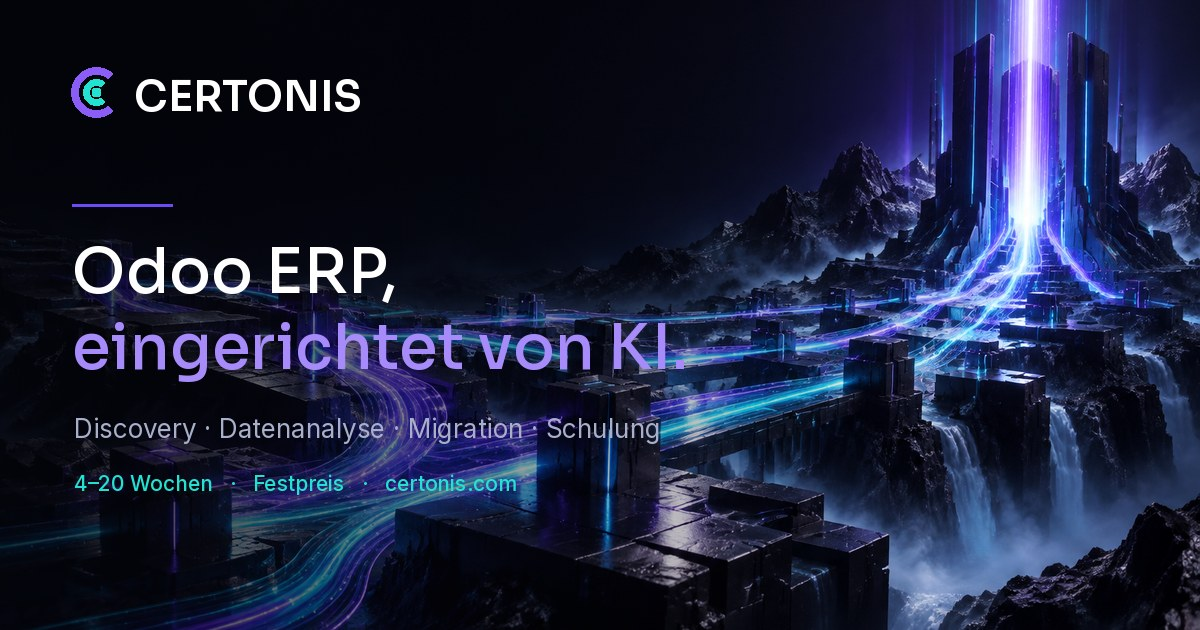
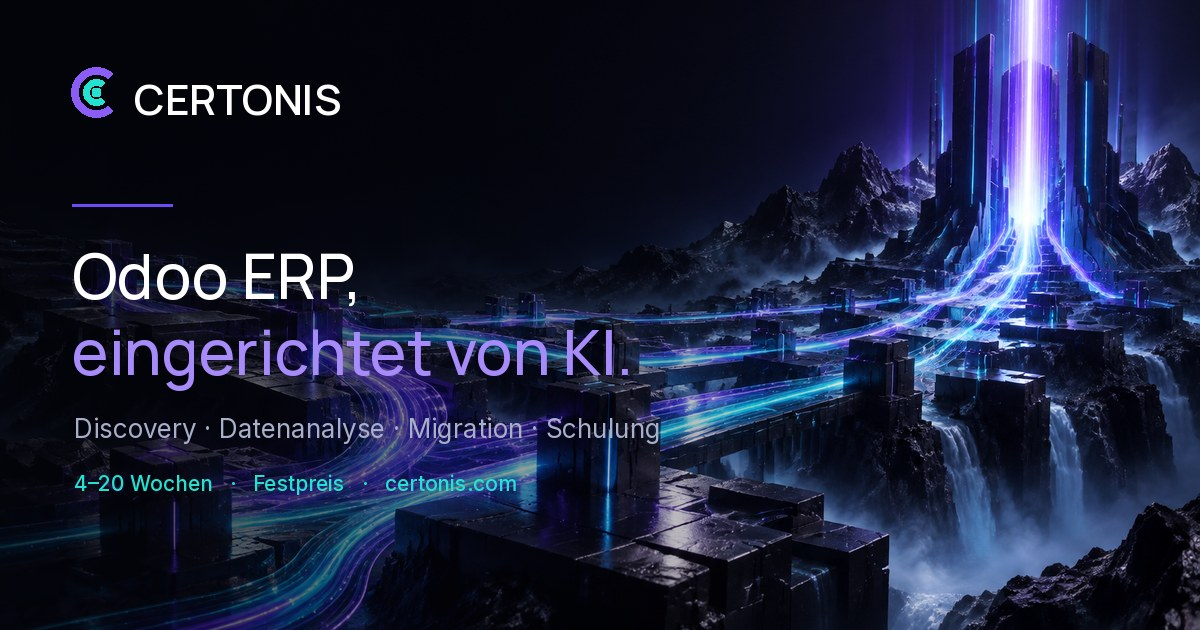
Display-Schrift auf Manrope umstellen — Sora hatte dasselbe Problem
Der Wechsel auf Sora hat das gemeldete Problem nicht behoben: Sora zeichnet g,
y und j ebenso mit flach endender Unterlänge wie Space Grotesk. Bei der Auswahl
hatte ich auf die Tiefe der Unterlänge geschaut (-0,208 em, unauffällig) statt
auf ihre Form — die Zahl war in Ordnung, die Zeichnung nicht.

Diesmal an isoliert gerenderten Schriftschnitten geprüft, bei 96 px und ohne
jede Maske: Manrope, Inter, Plus Jakarta Sans und Figtree lassen die Unterlänge
in einen Haken auslaufen, Sora und Space Grotesk brechen sie flach ab. Manrope
behält die technische Anmutung und hat mit -0,255 em die deutlichste Unterlänge.

- assets/fonts/manrope-var.woff2 ersetzt sora-var.woff2, ebenso die
  Vorlade-Angabe im Seitengerüst
- Social-Media-Karte neu gesetzt
- Zeilenmaske bleibt bei 0,26 em: Manropes g reicht bei Zeilenabstand 1,0 genau
  0,138 em unter die Kastenunterkante, das Polster trägt das

Unterwegs zwei eigene Fehlschlüsse korrigiert: Die frühere Aussage "der Beschnitt
kommt von der Zeilenmaske" war falsch — ein Pixelvergleich mit und ohne
`overflow: hidden` ergab identische Bilder. Und der erste Verdacht auf einen
horizontalen Überlauf ging auf einen hineingezoomten Screenshot zurück.

Claude-Session: https://claude.ai/code/session_01WkdFwrJwdcpA5acGkgVG9v

Changed region(s): [[0.0617, 0.5127, 0.555, 0.6333], [0.0617, 0.3921, 0.3392, 0.4825], [0.0925, 0.1206, 0.3083, 0.181]]

diff --git a/leistungen.html b/leistungen.html
@@ -9,7 +9,7 @@
 <meta name="description" content="Discovery, KI-gestützte Datenanalyse, Konfiguration mit Claude Code, Datenmigration, Schnittstellen und Schulung — alles, was zwischen Ihrem heutigen System und einem laufenden Odoo liegt.">
 <meta name="author" content="Certonis GmbH">
 <meta name="theme-color" content="#05060B">
-<meta name="build" content="26f2ef4">
+<meta name="build" content="62cb72c">
 <link rel="canonical" href="https://certonis.com/leistungen.html">
 <meta name="robots" content="index, follow, max-image-preview:large">
 
@@ -33,9 +33,9 @@
 <link rel="apple-touch-icon" href="/assets/icons/apple-touch-icon.png">
 <link rel="manifest" href="/site.webmanifest">
 
-<link rel="preload" href="/assets/fonts/sora-var.woff2" as="font" type="font/woff2" crossorigin>
+<link rel="preload" href="/assets/fonts/manrope-var.woff2" as="font" type="font/woff2" crossorigin>
 <link rel="preload" href="/assets/fonts/inter-var.woff2" as="font" type="font/woff2" crossorigin>
-<link rel="stylesheet" href="/css/main.css?v=e3b148a8">
+<link rel="stylesheet" href="/css/main.css?v=83008583">
 
 <script type="application/ld+json">
 {
@@ -373,7 +373,7 @@
       <span>© <span data-year>2026</span> Certonis GmbH · FN 674951 a · Landesgericht Linz</span>
       <span>
         <span data-i18n="footer.built">Gebaut mit Claude Code.</span>
-        <span class="footer__build" title="Build-Kennung — ändert sich bei jeder Änderung an der Seite">Build 26f2ef4</span>
+        <span class="footer__build" title="Build-Kennung — ändert sich bei jeder Änderung an der Seite">Build 62cb72c</span>
       </span>
     </div>
   </div>

diff --git a/preise.html b/preise.html
@@ -9,7 +9,7 @@
 <meta name="description" content="Odoo Community kostet 0 € pro User und Monat. Odoo Enterprise läuft über die offizielle Odoo-Preisliste. Die Einrichtung durch Certonis gibt es als Festpreis nach der Datenanalyse.">
 <meta name="author" content="Certonis GmbH">
 <meta name="theme-color" content="#05060B">
-<meta name="build" content="26f2ef4">
+<meta name="build" content="62cb72c">
 <link rel="canonical" href="https://certonis.com/preise.html">
 <meta name="robots" content="index, follow, max-image-preview:large">
 
@@ -33,9 +33,9 @@
 <link rel="apple-touch-icon" href="/assets/icons/apple-touch-icon.png">
 <link rel="manifest" href="/site.webmanifest">
 
-<link rel="preload" href="/assets/fonts/sora-var.woff2" as="font" type="font/woff2" crossorigin>
+<link rel="preload" href="/assets/fonts/manrope-var.woff2" as="font" type="font/woff2" crossorigin>
 <link rel="preload" href="/assets/fonts/inter-var.woff2" as="font" type="font/woff2" crossorigin>
-<link rel="stylesheet" href="/css/main.css?v=e3b148a8">
+<link rel="stylesheet" href="/css/main.css?v=83008583">
 
 <script type="application/ld+json">
 {
@@ -357,7 +357,7 @@
       <span>© <span data-year>2026</span> Certonis GmbH · FN 674951 a · Landesgericht Linz</span>
       <span>
         <span data-i18n="footer.built">Gebaut mit Claude Code.</span>
-        <span class="footer__build" title="Build-Kennung — ändert sich bei jeder Änderung an der Seite">Build 26f2ef4</span>
+        <span class="footer__build" title="Build-Kennung — ändert sich bei jeder Änderung an der Seite">Build 62cb72c</span>
       </span>
     </div>
   </div>

diff --git a/sicherheit.html b/sicherheit.html
@@ -9,7 +9,7 @@
 <meta name="description" content="Geheimhaltungsvereinbarung vor der ersten Datei, Auftragsverarbeitung nach Art. 28 DSGVO, Verarbeitung in der EU, Datenminimierung und kein KI-Training mit Ihren Daten.">
 <meta name="author" content="Certonis GmbH">
 <meta name="theme-color" content="#05060B">
-<meta name="build" content="26f2ef4">
+<meta name="build" content="62cb72c">
 <link rel="canonical" href="https://certonis.com/sicherheit.html">
 <meta name="robots" content="index, follow, max-image-preview:large">
 
@@ -33,9 +33,9 @@
 <link rel="apple-touch-icon" href="/assets/icons/apple-touch-icon.png">
 <link rel="manifest" href="/site.webmanifest">
 
-<link rel="preload" href="/assets/fonts/sora-var.woff2" as="font" type="font/woff2" crossorigin>
+<link rel="preload" href="/assets/fonts/manrope-var.woff2" as="font" type="font/woff2" crossorigin>
 <link rel="preload" href="/assets/fonts/inter-var.woff2" as="font" type="font/woff2" crossorigin>
-<link rel="stylesheet" href="/css/main.css?v=e3b148a8">
+<link rel="stylesheet" href="/css/main.css?v=83008583">
 
 <script type="application/ld+json">
 {
@@ -296,7 +296,7 @@
       <span>© <span data-year>2026</span> Certonis GmbH · FN 674951 a · Landesgericht Linz</span>
       <span>
         <span data-i18n="footer.built">Gebaut mit Claude Code.</span>
-        <span class="footer__build" title="Build-Kennung — ändert sich bei jeder Änderung an der Seite">Build 26f2ef4</span>
+        <span class="footer__build" title="Build-Kennung — ändert sich bei jeder Änderung an der Seite">Build 62cb72c</span>
       </span>
     </div>
   </div>

diff --git a/datenschutz.html b/datenschutz.html
@@ -9,7 +9,7 @@
 <meta name="description" content="Datenschutzerklärung der Certonis GmbH: Welche Daten beim Besuch von certonis.com verarbeitet werden, auf welcher Rechtsgrundlage und welche Rechte Sie haben.">
 <meta name="author" content="Certonis GmbH">
 <meta name="theme-color" content="#05060B">
-<meta name="build" content="26f2ef4">
+<meta name="build" content="62cb72c">
 <link rel="canonical" href="https://certonis.com/datenschutz.html">
 <meta name="robots" content="index, follow, max-image-preview:large">
 
@@ -33,9 +33,9 @@
 <link rel="apple-touch-icon" href="/assets/icons/apple-touch-icon.png">
 <link rel="manifest" href="/site.webmanifest">
 
-<link rel="preload" href="/assets/fonts/sora-var.woff2" as="font" type="font/woff2" crossorigin>
+<link rel="preload" href="/assets/fonts/manrope-var.woff2" as="font" type="font/woff2" crossorigin>
 <link rel="preload" href="/assets/fonts/inter-var.woff2" as="font" type="font/woff2" crossorigin>
-<link rel="stylesheet" href="/css/main.css?v=e3b148a8">
+<link rel="stylesheet" href="/css/main.css?v=83008583">
 
 <script type="application/ld+json">
 {
@@ -316,7 +316,7 @@
       <span>© <span data-year>2026</span> Certonis GmbH · FN 674951 a · Landesgericht Linz</span>
       <span>
         <span data-i18n="footer.built">Gebaut mit Claude Code.</span>
-        <span class="footer__build" title="Build-Kennung — ändert sich bei jeder Änderung an der Seite">Build 26f2ef4</span>
+        <span class="footer__build" title="Build-Kennung — ändert sich bei jeder Änderung an der Seite">Build 62cb72c</span>
       </span>
     </div>
   </div>

diff --git a/index.html b/index.html
@@ -9,7 +9,7 @@
 <meta name="description" content="Certonis begleitet den Umstieg auf Odoo, das größte Open-Source-ERP der Welt. Datenanalyse, Einrichtung und Migration durch KI. Festpreis, 4–20 Wochen, Schulung inklusive.">
 <meta name="author" content="Certonis GmbH">
 <meta name="theme-color" content="#05060B">
-<meta name="build" content="26f2ef4">
+<meta name="build" content="62cb72c">
 <link rel="canonical" href="https://certonis.com/">
 <meta name="robots" content="index, follow, max-image-preview:large">
 
@@ -33,9 +33,9 @@
 <link rel="apple-touch-icon" href="/assets/icons/apple-touch-icon.png">
 <link rel="manifest" href="/site.webmanifest">
 
-<link rel="preload" href="/assets/fonts/sora-var.woff2" as="font" type="font/woff2" crossorigin>
+<link rel="preload" href="/assets/fonts/manrope-var.woff2" as="font" type="font/woff2" crossorigin>
 <link rel="preload" href="/assets/fonts/inter-var.woff2" as="font" type="font/woff2" crossorigin>
-<link rel="stylesheet" href="/css/main.css?v=e3b148a8">
+<link rel="stylesheet" href="/css/main.css?v=83008583">
 
 <script type="application/ld+json">
 {
@@ -447,7 +447,7 @@
       <span>© <span data-year>2026</span> Certonis GmbH · FN 674951 a · Landesgericht Linz</span>
       <span>
         <span data-i18n="footer.built">Gebaut mit Claude Code.</span>
-        <span class="footer__build" title="Build-Kennung — ändert sich bei jeder Änderung an der Seite">Build 26f2ef4</span>
+        <span class="footer__build" title="Build-Kennung — ändert sich bei jeder Änderung an der Seite">Build 62cb72c</span>
       </span>
     </div>
   </div>

diff --git a/ki.html b/ki.html
@@ -9,7 +9,7 @@
 <meta name="description" content="Was die KI im ERP-Projekt übernimmt und was Menschen entscheiden. Vergleich zum klassischen Projektverlauf: 1–5 statt 9–18 Monate, rund 20 statt 120 Beratertage.">
 <meta name="author" content="Certonis GmbH">
 <meta name="theme-color" content="#05060B">
-<meta name="build" content="26f2ef4">
+<meta name="build" content="62cb72c">
 <link rel="canonical" href="https://certonis.com/ki.html">
 <meta name="robots" content="index, follow, max-image-preview:large">
 
@@ -33,9 +33,9 @@
 <link rel="apple-touch-icon" href="/assets/icons/apple-touch-icon.png">
 <link rel="manifest" href="/site.webmanifest">
 
-<link rel="preload" href="/assets/fonts/sora-var.woff2" as="font" type="font/woff2" crossorigin>
+<link rel="preload" href="/assets/fonts/manrope-var.woff2" as="font" type="font/woff2" crossorigin>
 <link rel="preload" href="/assets/fonts/inter-var.woff2" as="font" type="font/woff2" crossorigin>
-<link rel="stylesheet" href="/css/main.css?v=e3b148a8">
+<link rel="stylesheet" href="/css/main.css?v=83008583">
 
 <script type="application/ld+json">
 {
@@ -317,7 +317,7 @@
       <span>© <span data-year>2026</span> Certonis GmbH · FN 674951 a · Landesgericht Linz</span>
       <span>
         <span data-i18n="footer.built">Gebaut mit Claude Code.</span>
-        <span class="footer__build" title="Build-Kennung — ändert sich bei jeder Änderung an der Seite">Build 26f2ef4</span>
+        <span class="footer__build" title="Build-Kennung — ändert sich bei jeder Änderung an der Seite">Build 62cb72c</span>
       </span>
     </div>
   </div>

diff --git a/faq.html b/faq.html
@@ -9,7 +9,7 @@
 <meta name="description" content="Was kostet die Einrichtung, warum ist Odoo Community kostenlos, was macht die KI und was der Mensch, können Altdaten übernommen werden und wo läuft das System?">
 <meta name="author" content="Certonis GmbH">
 <meta name="theme-color" content="#05060B">
-<meta name="build" content="26f2ef4">
+<meta name="build" content="62cb72c">
 <link rel="canonical" href="https://certonis.com/faq.html">
 <meta name="robots" content="index, follow, max-image-preview:large">
 
@@ -33,9 +33,9 @@
 <link rel="apple-touch-icon" href="/assets/icons/apple-touch-icon.png">
 <link rel="manifest" href="/site.webmanifest">
 
-<link rel="preload" href="/assets/fonts/sora-var.woff2" as="font" type="font/woff2" crossorigin>
+<link rel="preload" href="/assets/fonts/manrope-var.woff2" as="font" type="font/woff2" crossorigin>
 <link rel="preload" href="/assets/fonts/inter-var.woff2" as="font" type="font/woff2" crossorigin>
-<link rel="stylesheet" href="/css/main.css?v=e3b148a8">
+<link rel="stylesheet" href="/css/main.css?v=83008583">
 
 <script type="application/ld+json">
 {
@@ -396,7 +396,7 @@
       <span>© <span data-year>2026</span> Certonis GmbH · FN 674951 a · Landesgericht Linz</span>
       <span>
         <span data-i18n="footer.built">Gebaut mit Claude Code.</span>
-        <span class="footer__build" title="Build-Kennung — ändert sich bei jeder Änderung an der Seite">Build 26f2ef4</span>
+        <span class="footer__build" title="Build-Kennung — ändert sich bei jeder Änderung an der Seite">Build 62cb72c</span>
       </span>
     </div>
   </div>

diff --git a/ablauf.html b/ablauf.html
@@ -9,7 +9,7 @@
 <meta name="description" content="Discovery Call, NDA und Datenschutz, Datenanalyse durch AI, Festpreisangebot, Einrichtung und Schulung. Der vollständige Ablauf mit realistischem Zeitplan.">
 <meta name="author" content="Certonis GmbH">
 <meta name="theme-color" content="#05060B">
-<meta name="build" content="26f2ef4">
+<meta name="build" content="62cb72c">
 <link rel="canonical" href="https://certonis.com/ablauf.html">
 <meta name="robots" content="index, follow, max-image-preview:large">
 
@@ -33,9 +33,9 @@
 <link rel="apple-touch-icon" href="/assets/icons/apple-touch-icon.png">
 <link rel="manifest" href="/site.webmanifest">
 
-<link rel="preload" href="/assets/fonts/sora-var.woff2" as="font" type="font/woff2" crossorigin>
+<link rel="preload" href="/assets/fonts/manrope-var.woff2" as="font" type="font/woff2" crossorigin>
 <link rel="preload" href="/assets/fonts/inter-var.woff2" as="font" type="font/woff2" crossorigin>
-<link rel="stylesheet" href="/css/main.css?v=e3b148a8">
+<link rel="stylesheet" href="/css/main.css?v=83008583">
 
 <script type="application/ld+json">
 {
@@ -395,7 +395,7 @@
       <span>© <span data-year>2026</span> Certonis GmbH · FN 674951 a · Landesgericht Linz</span>
       <span>
         <span data-i18n="footer.built">Gebaut mit Claude Code.</span>
-        <span class="footer__build" title="Build-Kennung — ändert sich bei jeder Änderung an der Seite">Build 26f2ef4</span>
+        <span class="footer__build" title="Build-Kennung — ändert sich bei jeder Änderung an der Seite">Build 62cb72c</span>
       </span>
     </div>
   </div>

diff --git a/agb.html b/agb.html
@@ -9,7 +9,7 @@
 <meta name="description" content="Allgemeine Geschäftsbedingungen der Certonis GmbH für Leistungen rund um die Einführung und Betreuung von Odoo-ERP-Systemen.">
 <meta name="author" content="Certonis GmbH">
 <meta name="theme-color" content="#05060B">
-<meta name="build" content="26f2ef4">
+<meta name="build" content="62cb72c">
 <link rel="canonical" href="https://certonis.com/agb.html">
 <meta name="robots" content="index, follow, max-image-preview:large">
 
@@ -33,9 +33,9 @@
 <link rel="apple-touch-icon" href="/assets/icons/apple-touch-icon.png">
 <link rel="manifest" href="/site.webmanifest">
 
-<link rel="preload" href="/assets/fonts/sora-var.woff2" as="font" type="font/woff2" crossorigin>
+<link rel="preload" href="/assets/fonts/manrope-var.woff2" as="font" type="font/woff2" crossorigin>
 <link rel="preload" href="/assets/fonts/inter-var.woff2" as="font" type="font/woff2" crossorigin>
-<link rel="stylesheet" href="/css/main.css?v=e3b148a8">
+<link rel="stylesheet" href="/css/main.css?v=83008583">
 
 <script type="application/ld+json">
 {
@@ -300,7 +300,7 @@
       <span>© <span data-year>2026</span> Certonis GmbH · FN 674951 a · Landesgericht Linz</span>
       <span>
         <span data-i18n="footer.built">Gebaut mit Claude Code.</span>
-        <span class="footer__build" title="Build-Kennung — ändert sich bei jeder Änderung an der Seite">Build 26f2ef4</span>
+        <span class="footer__build" title="Build-Kennung — ändert sich bei jeder Änderung an der Seite">Build 62cb72c</span>
       </span>
     </div>
   </div>

diff --git a/kontakt.html b/kontakt.html
@@ -9,7 +9,7 @@
 <meta name="description" content="45 Minuten, kostenlos und unverbindlich. Schreiben Sie uns, wo Sie stehen — wir melden uns innerhalb eines Werktags.">
 <meta name="author" content="Certonis GmbH">
 <meta name="theme-color" content="#05060B">
-<meta name="build" content="26f2ef4">
+<meta name="build" content="62cb72c">
 <link rel="canonical" href="https://certonis.com/kontakt.html">
 <meta name="robots" content="index, follow, max-image-preview:large">
 
@@ -33,9 +33,9 @@
 <link rel="apple-touch-icon" href="/assets/icons/apple-touch-icon.png">
 <link rel="manifest" href="/site.webmanifest">
 
-<link rel="preload" href="/assets/fonts/sora-var.woff2" as="font" type="font/woff2" crossorigin>
+<link rel="preload" href="/assets/fonts/manrope-var.woff2" as="font" type="font/woff2" crossorigin>
 <link rel="preload" href="/assets/fonts/inter-var.woff2" as="font" type="font/woff2" crossorigin>
-<link rel="stylesheet" href="/css/main.css?v=e3b148a8">
+<link rel="stylesheet" href="/css/main.css?v=83008583">
 
 <script type="application/ld+json">
 {
@@ -366,7 +366,7 @@
       <span>© <span data-year>2026</span> Certonis GmbH · FN 674951 a · Landesgericht Linz</span>
       <span>
         <span data-i18n="footer.built">Gebaut mit Claude Code.</span>
-        <span class="footer__build" title="Build-Kennung — ändert sich bei jeder Änderung an der Seite">Build 26f2ef4</span>
+        <span class="footer__build" title="Build-Kennung — ändert sich bei jeder Änderung an der Seite">Build 62cb72c</span>
       </span>
     </div>
   </div>

diff --git a/impressum.html b/impressum.html
@@ -9,7 +9,7 @@
 <meta name="description" content="Impressum und Offenlegung der Certonis GmbH gemäß § 5 ECG, § 14 UGB und §§ 24, 25 MedienG.">
 <meta name="author" content="Certonis GmbH">
 <meta name="theme-color" content="#05060B">
-<meta name="build" content="26f2ef4">
+<meta name="build" content="62cb72c">
 <link rel="canonical" href="https://certonis.com/impressum.html">
 <meta name="robots" content="index, follow, max-image-preview:large">
 
@@ -33,9 +33,9 @@
 <link rel="apple-touch-icon" href="/assets/icons/apple-touch-icon.png">
 <link rel="manifest" href="/site.webmanifest">
 
-<link rel="preload" href="/assets/fonts/sora-var.woff2" as="font" type="font/woff2" crossorigin>
+<link rel="preload" href="/assets/fonts/manrope-var.woff2" as="font" type="font/woff2" crossorigin>
 <link rel="preload" href="/assets/fonts/inter-var.woff2" as="font" type="font/woff2" crossorigin>
-<link rel="stylesheet" href="/css/main.css?v=e3b148a8">
+<link rel="stylesheet" href="/css/main.css?v=83008583">
 
 <script type="application/ld+json">
 {
@@ -285,7 +285,7 @@
       <span>© <span data-year>2026</span> Certonis GmbH · FN 674951 a · Landesgericht Linz</span>
       <span>
         <span data-i18n="footer.built">Gebaut mit Claude Code.</span>
-        <span class="footer__build" title="Build-Kennung — ändert sich bei jeder Änderung an der Seite">Build 26f2ef4</span>
+        <span class="footer__build" title="Build-Kennung — ändert sich bei jeder Änderung an der Seite">Build 62cb72c</span>
       </span>
     </div>
   </div>

diff --git a/404.html b/404.html
@@ -9,7 +9,7 @@
 <meta name="description" content="Diese Seite existiert nicht. Zurück zur Startseite von Certonis.">
 <meta name="author" content="Certonis GmbH">
 <meta name="theme-color" content="#05060B">
-<meta name="build" content="26f2ef4">
+<meta name="build" content="62cb72c">
 <link rel="canonical" href="https://certonis.com/404.html">
 <meta name="robots" content="noindex, follow">
 
@@ -33,9 +33,9 @@
 <link rel="apple-touch-icon" href="/assets/icons/apple-touch-icon.png">
 <link rel="manifest" href="/site.webmanifest">
 
-<link rel="preload" href="/assets/fonts/sora-var.woff2" as="font" type="font/woff2" crossorigin>
+<link rel="preload" href="/assets/fonts/manrope-var.woff2" as="font" type="font/woff2" crossorigin>
 <link rel="preload" href="/assets/fonts/inter-var.woff2" as="font" type="font/woff2" crossorigin>
-<link rel="stylesheet" href="/css/main.css?v=e3b148a8">
+<link rel="stylesheet" href="/css/main.css?v=83008583">
 
 <script type="application/ld+json">
 {
@@ -236,7 +236,7 @@
       <span>© <span data-year>2026</span> Certonis GmbH · FN 674951 a · Landesgericht Linz</span>
       <span>
         <span data-i18n="footer.built">Gebaut mit Claude Code.</span>
-        <span class="footer__build" title="Build-Kennung — ändert sich bei jeder Änderung an der Seite">Build 26f2ef4</span>
+        <span class="footer__build" title="Build-Kennung — ändert sich bei jeder Änderung an der Seite">Build 62cb72c</span>
       </span>
     </div>
   </div>
